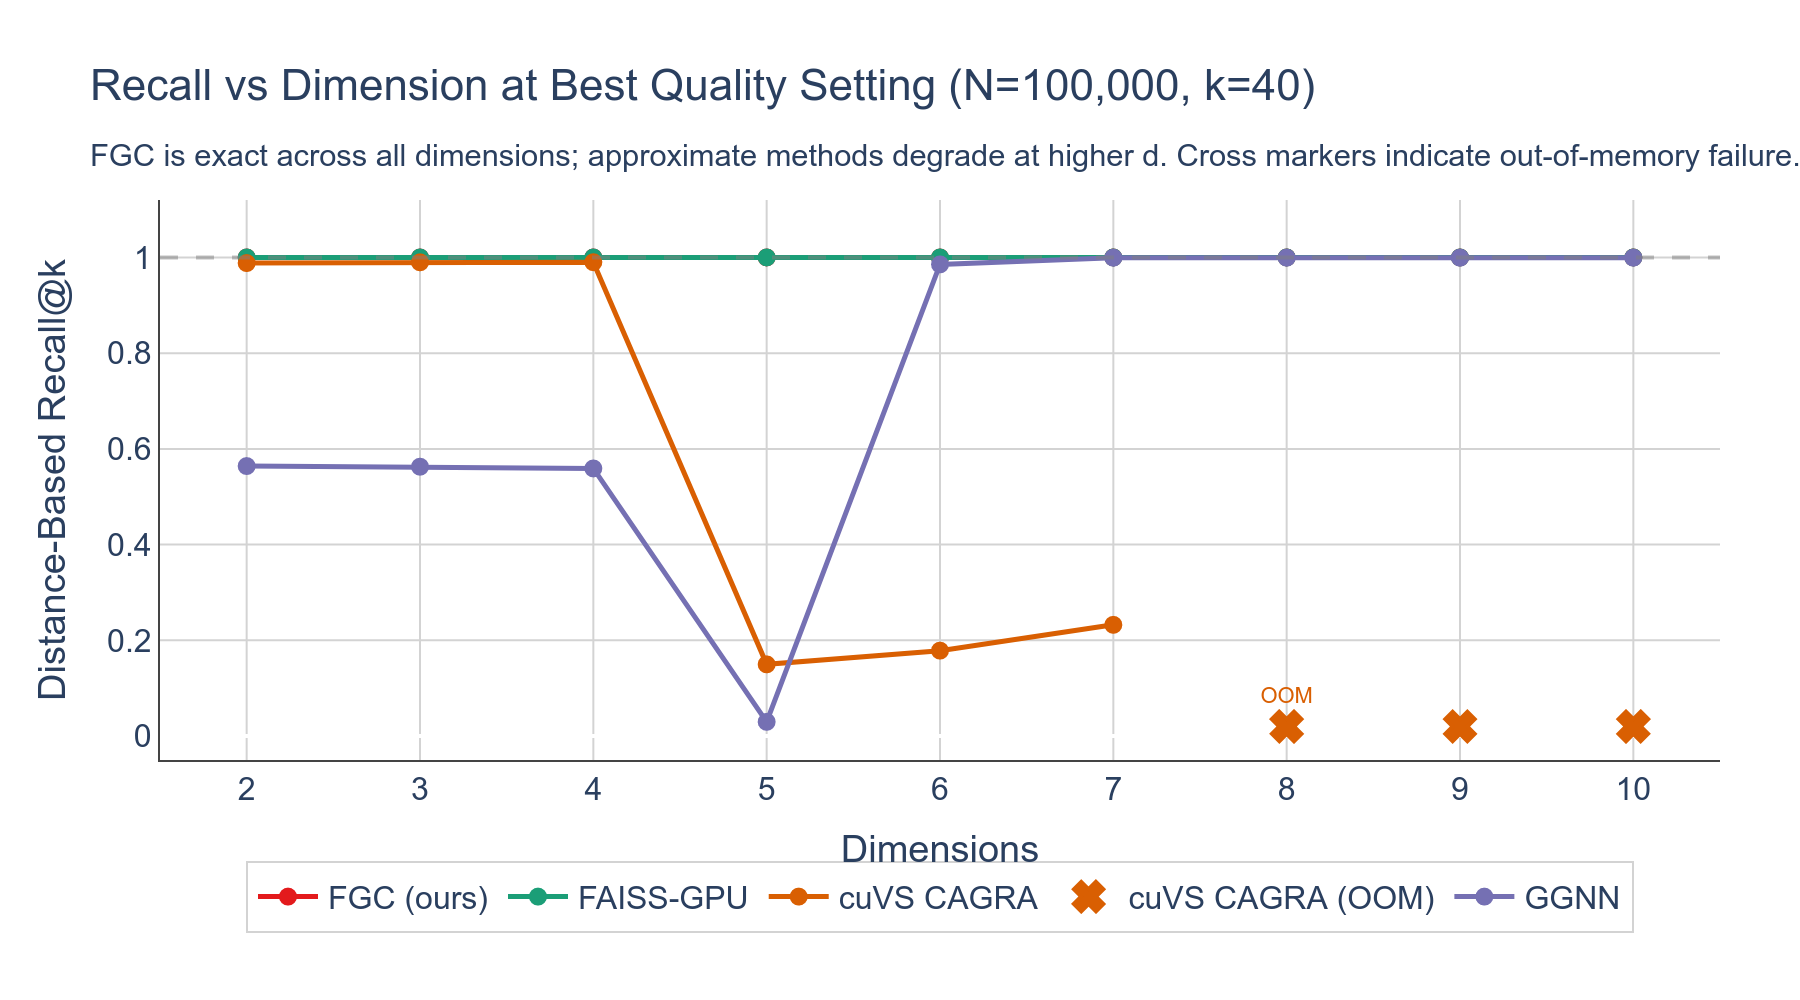
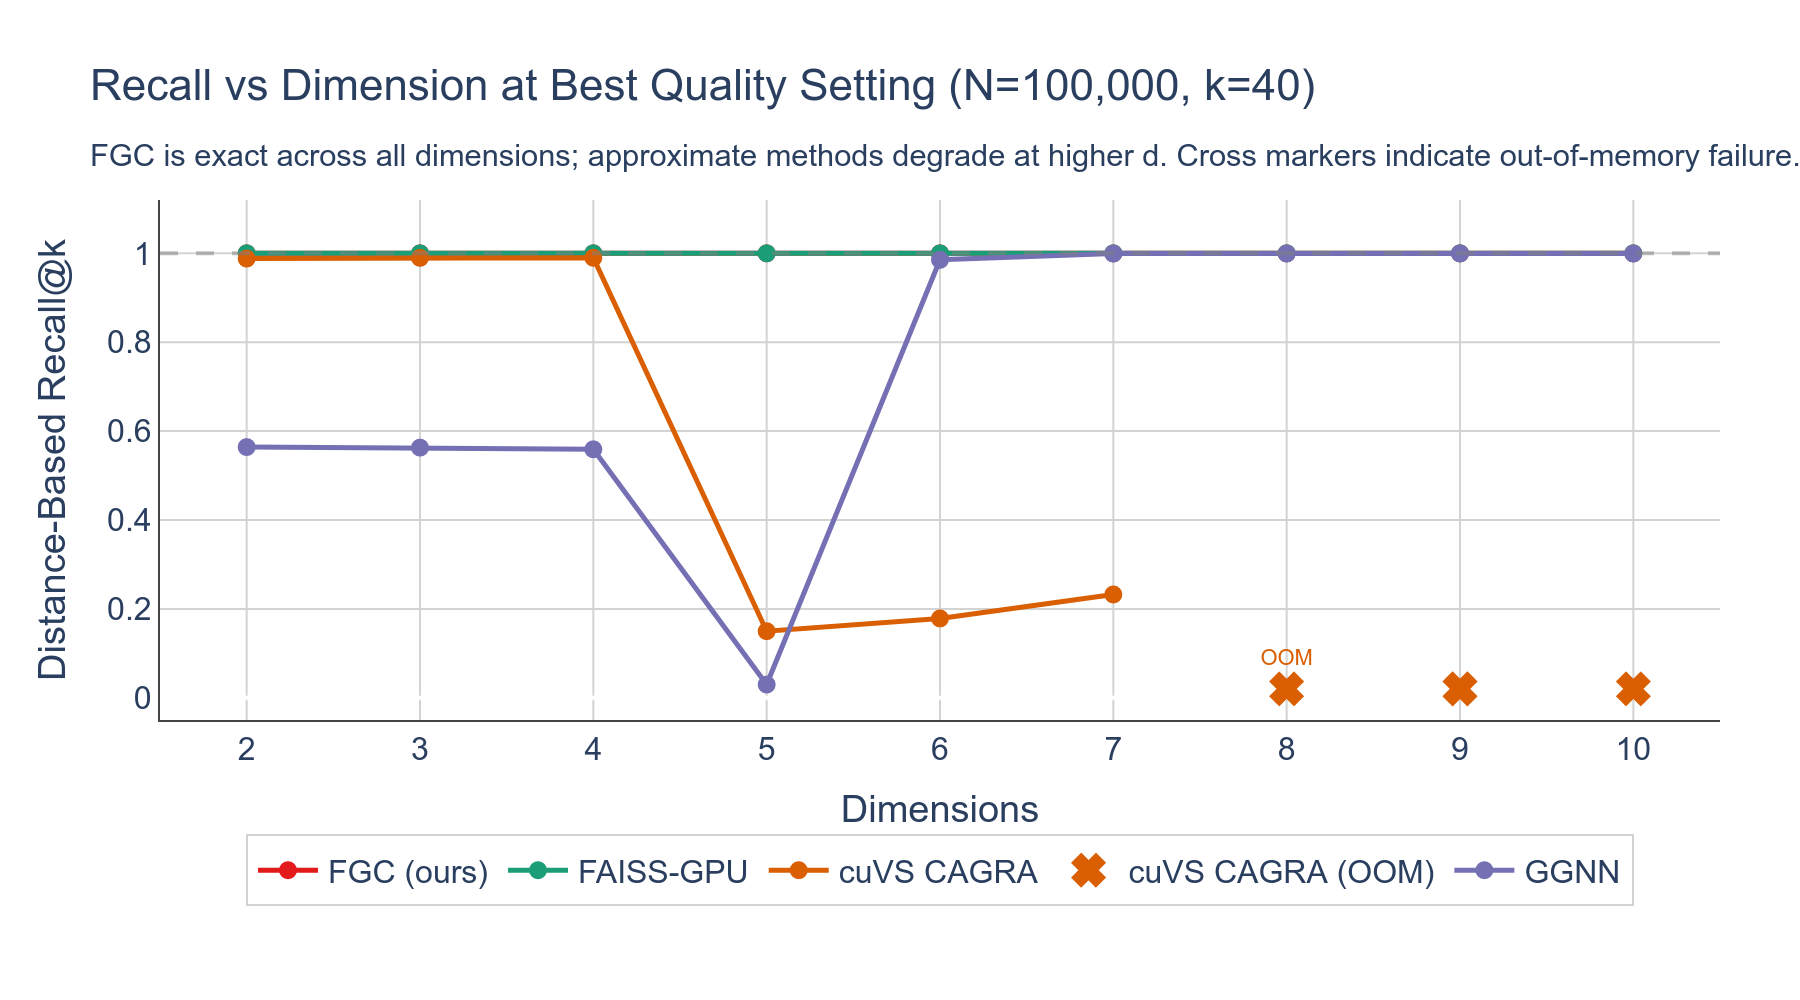
recall_vs_dimension: push legend lower to clear x-axis label

diff --git a/process_gpu_csvs.py b/process_gpu_csvs.py
@@ -1045,9 +1045,9 @@ def plot_recall_vs_dimension(
         font=dict(family="Arial", size=16),
         plot_bgcolor="white",
         paper_bgcolor="white",
-        legend=dict(orientation="h", yanchor="top", y=-0.18, xanchor="center", x=0.5,
+        legend=dict(orientation="h", yanchor="top", y=-0.22, xanchor="center", x=0.5,
                     bgcolor="rgba(255,255,255,0.85)", bordercolor="lightgray", borderwidth=1),
-        margin=dict(t=100, b=120, l=80, r=40),
+        margin=dict(t=100, b=140, l=80, r=40),
     )
     return fig
 
